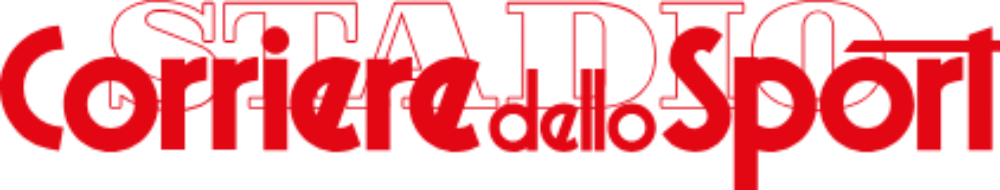
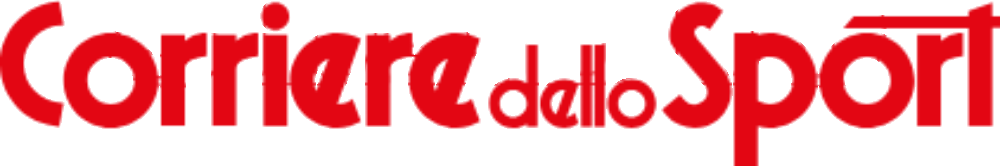
Loghi puliti: Gazzetta senza slogan, Corriere dello Sport senza STADIO, stessa larghezza

diff --git a/lib/outlet-logo-sizes.js b/lib/outlet-logo-sizes.js
@@ -1,16 +1,18 @@
 // Approved in the logo dashboard by Andrea on 2026-10-05. Dimensions are PDF points.
+// 2026-10-06: Gazzetta without the tagline and Corriere dello Sport without the STADIO outline,
+// same width (same lettering size); height reduced in proportion to the crop.
 export const globalLogoPercent = 100;
 export const outletLogoSizes = {
   "gazzetta-wordmark": {
     "src": "/testate/pdf/gazzetta-wordmark.png",
     "width": 39.90243902439025,
-    "height": 10,
+    "height": 6.926829268292684,
     "percent": 100
   },
   "corriere-sport": {
     "src": "/testate/pdf/corriere-sport.png",
     "width": 52,
-    "height": 9.879999999999999,
+    "height": 8.632,
     "percent": 75
   },
   "tuttosport": {
